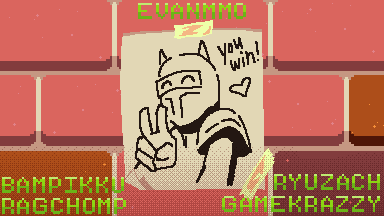
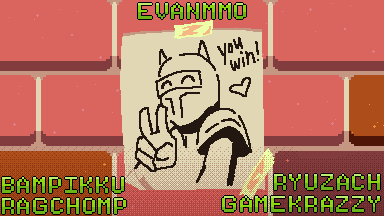
Add victory screen

Changed region(s): [[0.5625, 0.7778, 1.0, 1.0], [0.0, 0.8056, 0.3438, 1.0], [0.3438, 0.0, 0.6562, 0.1111]]

diff --git a/src/functions/ui/createVictoryScreen.ts b/src/functions/ui/createVictoryScreen.ts
@@ -1,0 +1,89 @@
+import {
+  createButton,
+  createSprite,
+  getGameHeight,
+  getGameWidth,
+  openURL,
+} from "pixel-pigeon";
+import { state } from "../../state";
+
+interface CreditsEntry {
+  height: number;
+  width: number;
+  x: number;
+  y: number;
+  url: string;
+}
+
+export const createVictoryScreen = (): void => {
+  const width: number = getGameWidth();
+  const height: number = getGameHeight();
+  createSprite({
+    animationID: "default",
+    animations: [
+      {
+        frames: [
+          {
+            height,
+            sourceHeight: height,
+            sourceWidth: width,
+            sourceX: 0,
+            sourceY: 0,
+            width,
+          },
+        ],
+        id: "default",
+      },
+    ],
+    coordinates: {
+      condition: (): boolean =>
+        state.values.didWin && state.values.gameEndedAt !== null,
+      x: 0,
+      y: 0,
+    },
+    imagePath: "victory",
+  });
+  const creditsEntries: CreditsEntry[] = [
+    {
+      height: 18,
+      url: "https://evanmmo.com",
+      width: 110,
+      x: 173,
+      y: 2,
+    },
+    {
+      height: 18,
+      url: "https://twitter.com/bampikku",
+      width: 124,
+      x: 1,
+      y: 176,
+    },
+    {
+      height: 18,
+      url: "https://twitter.com/RyuzachPixel",
+      width: 108,
+      x: 273,
+      y: 173,
+    },
+    {
+      height: 18,
+      url: "https://twitter.com/gamekrazzy",
+      width: 160,
+      x: 221,
+      y: 195,
+    },
+  ];
+  for (const creditsEntry of creditsEntries) {
+    createButton({
+      coordinates: {
+        x: creditsEntry.x,
+        y: creditsEntry.y,
+      },
+      height: creditsEntry.height,
+      onClick: (): void => {
+        openURL(creditsEntry.url);
+      },
+      width: creditsEntry.width,
+    });
+  }
+};

diff --git a/src/functions/retry.ts b/src/functions/retry.ts
@@ -1,4 +1,5 @@
 import { Enemy } from "../classes/Enemy";
+import { StateSchema, state } from "../state";
 import { XDirection } from "../types/Direction";
 import {
   applyAudioSourceVolume,
@@ -9,7 +10,6 @@ import {
 import { getDefinables } from "definables";
 import { playerMaxHP } from "../constants";
 import { startGame } from "./startGame";
-import { state } from "../state";
 
 export const retry = (): void => {
   if (state.values.playerEntityID === null) {
@@ -20,13 +20,16 @@ export const retry = (): void => {
     removeEntity(state.values.destructible.batteryEntityID);
     removeEntity(state.values.destructible.baseEntityID);
   }
-  state.setValues({
+  const initialValues: StateSchema = {
+    bossSpawnedAt: null,
     comboDirectionSequence: [],
     defeatAdvancedAt: null,
     destructible: null,
+    didWin: false,
     enemiesStartedAt: null,
     facingDirection: XDirection.Right,
     gameEndedAt: null,
+    gameStartedAt: null,
     jumpedAt: null,
     lastComboDirection: null,
     lastEnemyDirection: null,
@@ -42,8 +45,11 @@ export const retry = (): void => {
     playerTookDamageAt: null,
     power: 0,
     spawnedEnemyAt: null,
+    titleAdvancedAt: state.values.titleAdvancedAt,
+    titleStartedAt: null,
     unlockDisplayedAt: null,
-  });
+  };
+  state.setValues(initialValues);
   for (const enemy of getDefinables(Enemy).values()) {
     enemy.remove();
   }

diff --git a/src/functions/ui/createDefeatScreen.ts b/src/functions/ui/createDefeatScreen.ts
@@ -31,6 +31,7 @@ export const createDefeatScreen = (): void => {
     ],
     coordinates: {
       condition: (): boolean =>
+        state.values.didWin === false &&
         state.values.gameEndedAt !== null &&
         state.values.defeatAdvancedAt === null,
       x: 0,
@@ -57,6 +58,7 @@ export const createDefeatScreen = (): void => {
     ],
     coordinates: {
       condition: (): boolean =>
+        state.values.didWin === false &&
         state.values.gameEndedAt !== null &&
         state.values.defeatAdvancedAt !== null,
       x: 0,
@@ -67,6 +69,7 @@ export const createDefeatScreen = (): void => {
   createButton({
     coordinates: {
       condition: (): boolean =>
+        state.values.didWin === false &&
         state.values.gameEndedAt !== null &&
         state.values.defeatAdvancedAt === null,
       x: 151,
@@ -81,7 +84,10 @@ export const createDefeatScreen = (): void => {
     width: 90,
   });
   createInputPressHandler({
-    condition: (): boolean => state.values.gameEndedAt !== null,
+    condition: (): boolean =>
+      state.values.didWin === false &&
+      state.values.gameEndedAt !== null &&
+      state.values.defeatAdvancedAt === null,
     inputCollectionID: startInputCollectionID,
     onInput: (): void => {
       state.setValues({

diff --git a/src/functions/damagePlayer.ts b/src/functions/damagePlayer.ts
@@ -1,10 +1,5 @@
-import {
-  applyAudioSourceVolume,
-  fadeInAudioSourceVolume,
-  fadeOutAudioSourceVolume,
-  getCurrentTime,
-  moveEntity,
-} from "pixel-pigeon";
+import { endGame } from "./endGame";
+import { getCurrentTime, moveEntity } from "pixel-pigeon";
 import { isPlayerStunned } from "./isPlayerStunned";
 import { isPlayerTakingDamage } from "./isPlayerTakingDamage";
 import { state } from "../state";
@@ -33,16 +28,7 @@ export const damagePlayer = (damage: number, stunDuration: number): void => {
       playerPunch: null,
     });
     if (state.values.playerHP <= 0) {
-      fadeOutAudioSourceVolume("music/main", {
-        duration: 1000,
-      });
-      applyAudioSourceVolume("music/chill", { volume: 0.5 });
-      fadeInAudioSourceVolume("music/chill", {
-        duration: 1000,
-      });
-      state.setValues({
-        gameEndedAt: currentTime,
-      });
+      endGame(false);
     }
   }
 };

diff --git a/src/state.ts b/src/state.ts
@@ -8,10 +8,12 @@ import { State } from "pixel-pigeon";
 import { XDirection, YDirection } from "./types/Direction";
 import { playerMaxHP } from "./constants";
 
-interface StateSchema {
+export interface StateSchema {
+  bossSpawnedAt: number | null;
   comboDirectionSequence: (XDirection | YDirection)[];
   defeatAdvancedAt: number | null;
   destructible: Destructible | null;
+  didWin: boolean;
   facingDirection: XDirection;
   enemiesStartedAt: number | null;
   gameEndedAt: number | null;
@@ -35,11 +37,12 @@ interface StateSchema {
   titleStartedAt: number | null;
   unlockDisplayedAt: number | null;
 }
-
 export const state: State<StateSchema> = new State<StateSchema>({
+  bossSpawnedAt: null,
   comboDirectionSequence: [],
   defeatAdvancedAt: null,
   destructible: null,
+  didWin: false,
   enemiesStartedAt: null,
   facingDirection: XDirection.Right,
   gameEndedAt: null,

diff --git a/src/functions/damageEnemy.ts b/src/functions/damageEnemy.ts
@@ -1,6 +1,7 @@
 import { Enemy } from "../classes/Enemy";
+import { endGame } from "./endGame";
 import { getCurrentTime, getEntityPosition } from "pixel-pigeon";
-import { getDefinable } from "definables";
+import { getDefinable, getDefinablesCount } from "definables";
 import { isEnemyStunned } from "./isEnemyStunned";
 import { isEnemyTakingDamage } from "./isEnemyTakingDamage";
 import { isEnemyTakingKnockback } from "./isEnemyTakingKnockback";
@@ -38,6 +39,12 @@ export const damageEnemy = (
     enemy.punch = null;
     if (enemy.hp <= 0) {
       enemy.remove();
+      if (
+        state.values.bossSpawnedAt !== null &&
+        getDefinablesCount(Enemy) === 0
+      ) {
+        endGame(true);
+      }
     }
   }
 };

diff --git a/src/functions/createEnemies.ts b/src/functions/createEnemies.ts
@@ -15,6 +15,7 @@ import { state } from "../state";
 export const createEnemies = (): void => {
   const currentTime: number = getCurrentTime();
   if (
+    state.values.bossSpawnedAt === null &&
     state.values.enemiesStartedAt !== null &&
     (state.values.spawnedEnemyAt === null ||
       currentTime - state.values.spawnedEnemyAt >= enemySpawnTime)
@@ -123,6 +124,9 @@ export const createEnemies = (): void => {
             ? XDirection.Right
             : XDirection.Left,
         type: EnemyType.Boss,
+      });
+      state.setValues({
+        bossSpawnedAt: currentTime,
       });
     }
     if (didSpawn) {

diff --git a/src/functions/endGame.ts b/src/functions/endGame.ts
@@ -1,0 +1,21 @@
+import {
+  applyAudioSourceVolume,
+  fadeInAudioSourceVolume,
+  fadeOutAudioSourceVolume,
+  getCurrentTime,
+} from "pixel-pigeon";
+import { state } from "../state";
+
+export const endGame = (didWin: boolean): void => {
+  fadeOutAudioSourceVolume("music/main", {
+    duration: 1000,
+  });
+  applyAudioSourceVolume("music/chill", { volume: 0.5 });
+  fadeInAudioSourceVolume("music/chill", {
+    duration: 1000,
+  });
+  state.setValues({
+    didWin,
+    gameEndedAt: getCurrentTime(),
+  });
+};

diff --git a/src/functions/ui/createUI.ts b/src/functions/ui/createUI.ts
@@ -2,9 +2,11 @@ import { createDefeatScreen } from "./createDefeatScreen";
 import { createHUD } from "./createHUD";
 import { createInstructions } from "./createInstructions";
 import { createTitleScreen } from "./createTitleScreen";
+import { createVictoryScreen } from "./createVictoryScreen";
 
 export const createUI = (): void => {
   createTitleScreen();
+  createVictoryScreen();
   createDefeatScreen();
   createHUD();
   createInstructions();
